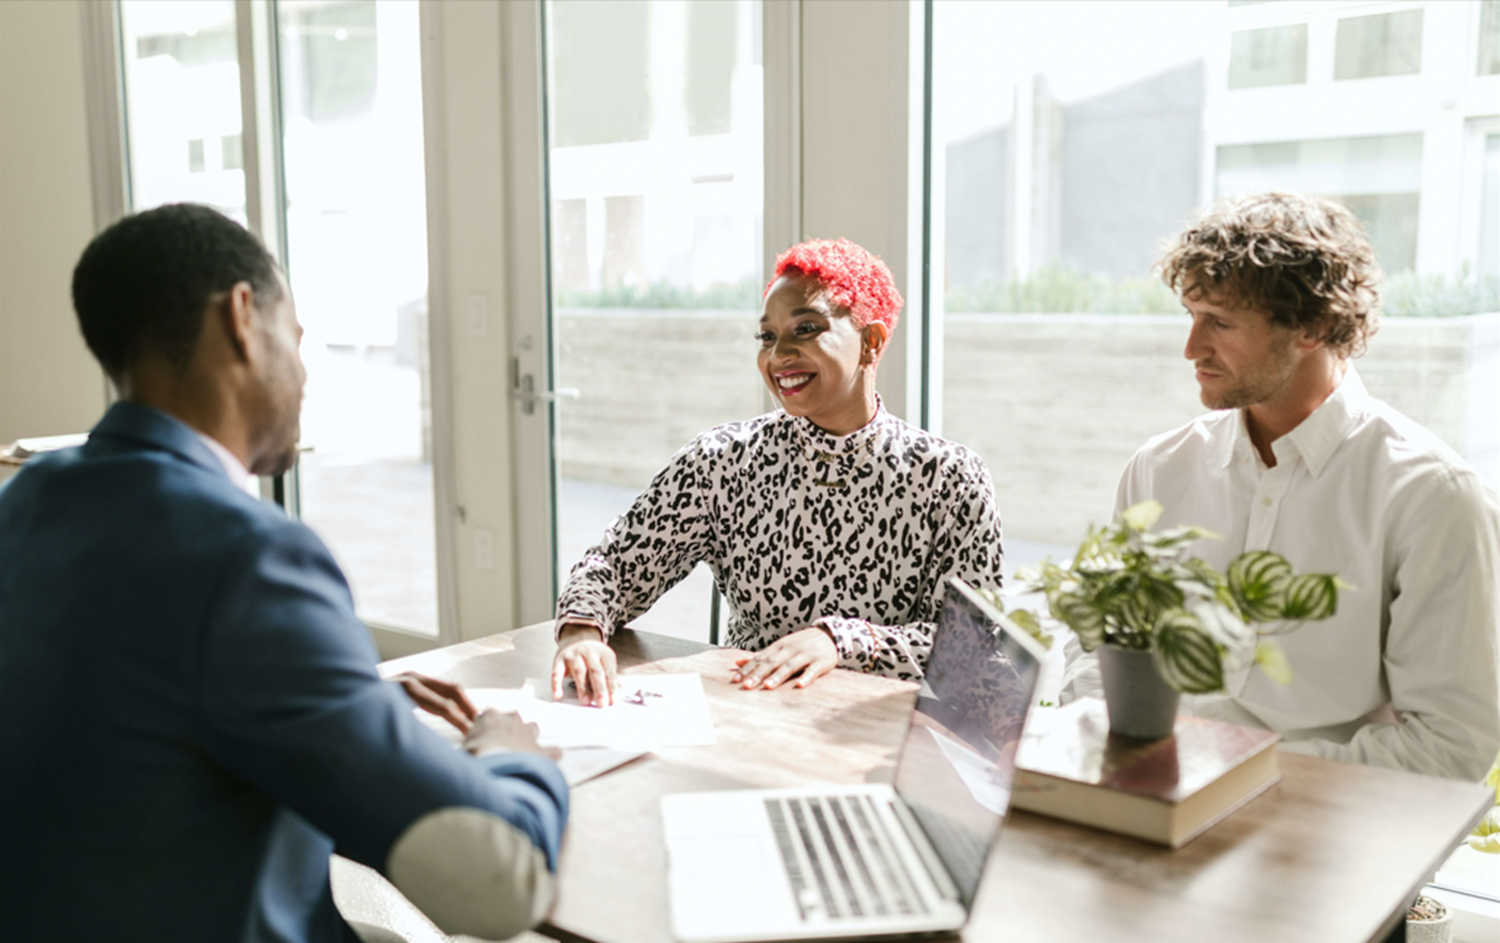
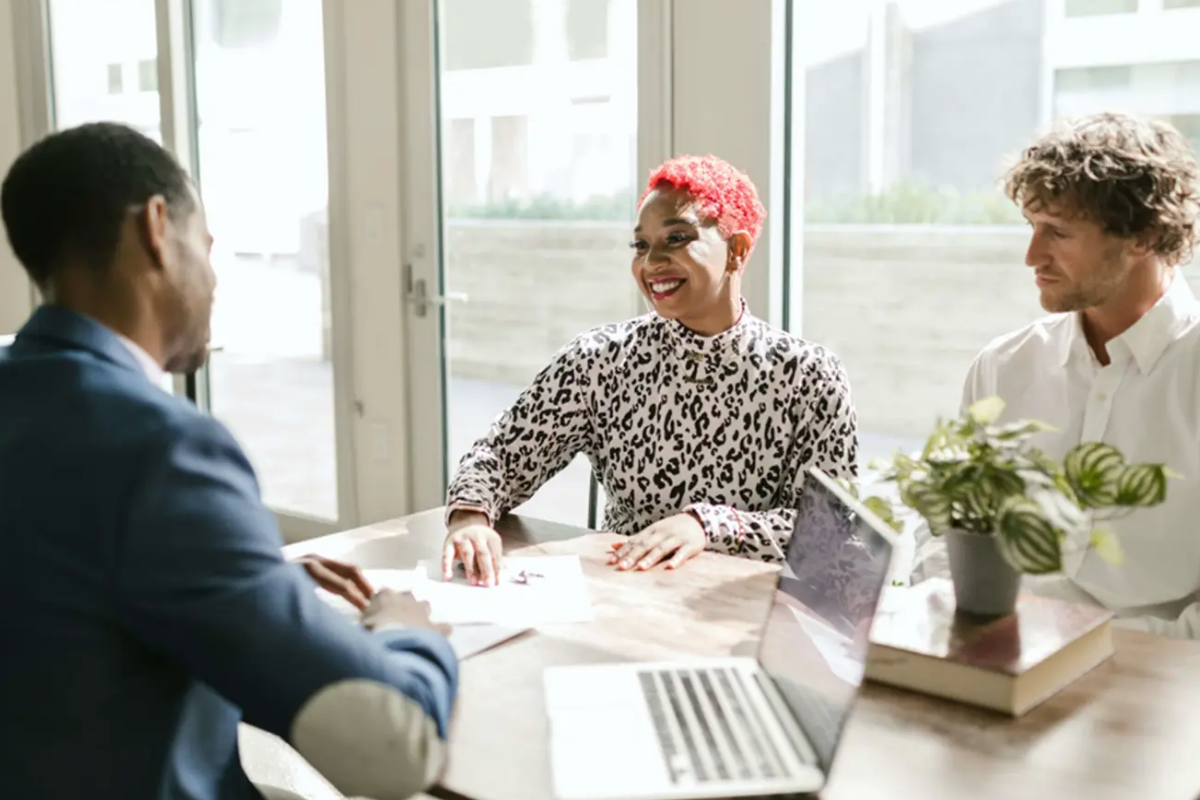
added to my homepage

diff --git a/chamber/index.html b/chamber/index.html
@@ -38,10 +38,10 @@
         </header>
         <div id="hero">
             <div id="hero-box">
-                <picture id="hero-img">
-                    <source media="(max-width: 500px)" srcset="images/hero-small.webp">
-                    <source media="(max-width: 1000px)" srcset="images/hero-medium.webp">
-                    <img src="images/hero-larger.webp" alt="It's group chating with each other." width="1500" height="943">
+                <picture >
+                    <source media="(max-width: 300px)" class="hero-imgs" srcset="images/hero-small.webp">
+                    <source media="(max-width: 900px)" class="hero-imgs" srcset="images/hero-medium.webp">
+                    <img id="hero-img" src="images/hero-larger.webp" alt="It's group chating with each other." width="1200" height="800">
                 </picture>
                 <!-- <img id="hero-img" src="images/hero.webp" alt="The Tainan Automation Machinery and Smart Manufacturing Exhibition"> -->
             </div>

diff --git a/chamber/styles/base.css b/chamber/styles/base.css
@@ -294,9 +294,7 @@ nav a {
     right: 2rem;
     cursor: pointer;
   }
-  .hero-img{
-    max-width: 500px;
-  }
+
   nav{
     gap: 0;
     display: block; 
